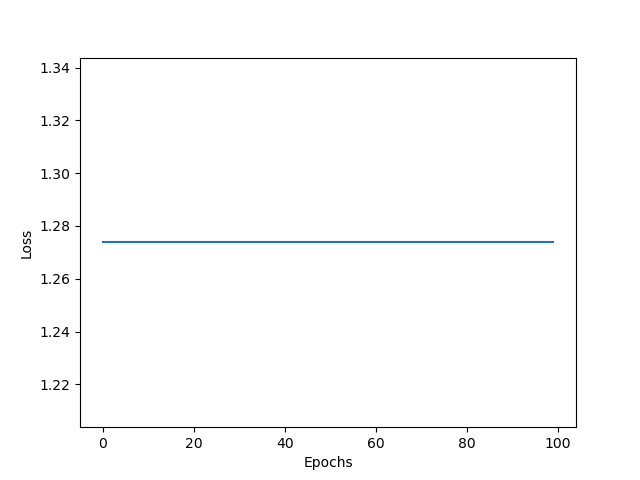
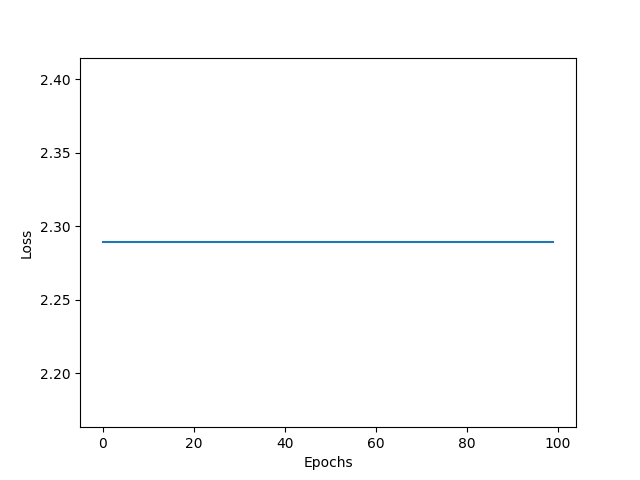
240501

diff --git a/2_Computer_Science/Artificial_Intelligence/experiment/EXP7/multilayer_perceptron_v2.py b/2_Computer_Science/Artificial_Intelligence/experiment/EXP7/multilayer_perceptron_v2.py
@@ -8,10 +8,11 @@ class Multilayer_Perceptron:
         self.weights2 = np.random.randn(hidden_size, output_size)
         self.bias1 = np.random.randn(1, hidden_size)
         self.bias2 = np.random.randn(1, output_size)
-        
+        self.losses = []
+
     def sigmoid(self, x):
         return 1 / (1 + np.exp(-x))
-    
+
     def sigmoid_derivative(self, x):
         return x * (1 - x)
 
@@ -21,7 +22,7 @@ class Multilayer_Perceptron:
     def loss_derivative(self, y_true, y_pred):
         return y_pred - y_true
 
-    def fit(self, X, y, learning_rate=0.01, epochs=10000):
+    def fit(self, X, y, learning_rate=0.01, epochs=1000):
         w1 = np.vstack((self.weights1, self.bias1))
         w2 = np.vstack((self.weights2, self.bias2))
         bias = np.ones((X.shape[0], 1))
@@ -34,6 +35,8 @@ class Multilayer_Perceptron:
             output_layer_input = np.dot(np.column_stack((hidden_layer_output, bias)), w2)
             output_layer_output = self.sigmoid(output_layer_input)
 
+            self.losses.append(np.sum(self.loss(y, output_layer_output)))
+
             # backward pass (output layer)
             # delta(E_total) /  delta(output_o)
             gradient_cal1 = self.loss_derivative(y, output_layer_output) # data_size x output_layer_size
@@ -44,7 +47,7 @@ class Multilayer_Perceptron:
             # delta(E_total) / delta(w2)
             gradient_cal4 = np.dot(gradient_cal3.T, gradient_cal1 * gradient_cal2) # (hidden_layer_size + 1) x output_layer_size
             # update w2
-            weights2_update = gradient_cal4 * learning_rate 
+            weights2_update = gradient_cal4 * learning_rate
             w2 -= weights2_update
 
             # backward pass (hidden layer)
@@ -85,33 +88,46 @@ if __name__ == '__main__':
     age, estimated_salary, purchased = data_train[:, 0], data_train[:, 1], data_train[:, 2]
     age_test, estimated_salary_test, purchased_test = data_test[:, 0], data_test[:, 1], data_test[:, 2]
 
-    mlp = Multilayer_Perceptron(2, 4, 1)
+    mlp = Multilayer_Perceptron(2, 8, 1)
 
     X_train = np.column_stack((age, estimated_salary))
-    y_train = np.expand_dims(purchased, axis=1) 
+    y_train = np.expand_dims(purchased, axis=1)
     mlp.fit(X_train, y_train)
 
     X_test = np.column_stack((age_test, estimated_salary_test))
-    y_test = np.expand_dims(purchased_test, axis=1) 
+    y_test = np.expand_dims(purchased_test, axis=1)
     y_pred = mlp.predict(X_test)
 
+    plt.xlabel('Age')
+    plt.ylabel('Estimated Salary')
+
+    count_correct = 0
     for i in range(len(y_pred)):
-        if y_pred[i] > 0 and y_test[i] == 1 or y_pred[i] <= 0 and y_test[i] == 0:
+        if y_pred[i] > 0.5 and y_test[i] == 1 or y_pred[i] <= 0.5 and y_test[i] == 0:
             print(f'\033[92mPredicted: {y_pred[i][0]:.2f}, Actual: {y_test[i]}\033[0m')
+            count_correct += 1
         else :
             print(f'\033[91mPredicted: {y_pred[i][0]:.2f}, Actual: {y_test[i]}\033[0m')
+    print(f'Correct Rate: {count_correct / len(y_pred):.2%}')
 
     for i in range(len(y_test)):
         if y_test[i] == 1:
             plt.scatter(age_test[i], estimated_salary_test[i], color='red')
         else:
             plt.scatter(age_test[i], estimated_salary_test[i], color='blue')
-    plt.xlabel('Age')
-    plt.ylabel('Estimated Salary')
-    
+
+    plt.savefig('mlp_data.png')
+
     x = np.linspace(-3, 3, 100)
     y = np.linspace(-3, 3, 100)
     X, Y = np.meshgrid(x, y)
     Z = mlp.predict(np.column_stack((X.ravel(), Y.ravel()))).reshape(X.shape)
     plt.contourf(X, Y, Z, levels=1, alpha=0.5)
-    plt.show()
+    # plt.show()
+    plt.savefig('mlp_prediction.png')
+    plt.close()
+
+    plt.plot(mlp.losses)
+    plt.xlabel('Epochs')
+    plt.ylabel('Loss')
+    plt.savefig('mlp_loss.png')

diff --git a/2_Computer_Science/Artificial_Intelligence/experiment/EXP7/perceptron.py b/2_Computer_Science/Artificial_Intelligence/experiment/EXP7/perceptron.py
@@ -4,7 +4,7 @@ import matplotlib.pyplot as plt
 class Perceptron:
 
     def __init__(self, input_size, output_size):
-        self.weights = np.random.randn(input_size, output_size) 
+        self.weights = np.random.randn(input_size, output_size)
         self.bias = np.random.randn(1, output_size)
         self.losses = []
 
@@ -13,7 +13,7 @@ class Perceptron:
         bias = np.ones((X.shape[0], 1))
         for _ in range(epochs):
             y_pred = self.predict(X)
-            self.losses.append(np.mean(0.5 * np.power(y_pred - y, 2)))
+            self.losses.append(0.5 * np.power(y_pred - y, 2))
             w -= learning_rate * np.dot(np.column_stack((X, bias)).T, y_pred - y)
         self.weights = w[:-1]
         self.bias = w[-1]
@@ -23,7 +23,7 @@ class Perceptron:
         return np.dot(np.column_stack((X, bias)), np.vstack((self.weights, self.bias)))
 
 if __name__ == '__main__':
-    data = np.genfromtxt('data/data.csv', delimiter=',', skip_header=1) 
+    data = np.genfromtxt('data/data.csv', delimiter=',', skip_header=1)
     # z-score normalization
     data[:, 0] = (data[:, 0] - data[:, 0].mean()) / data[:, 0].std()
     data[:, 1] = (data[:, 1] - data[:, 1].mean()) / data[:, 1].std()
@@ -37,11 +37,11 @@ if __name__ == '__main__':
     perceptron = Perceptron(2, 1)
 
     X_train = np.column_stack((age, estimated_salary))
-    y_train = np.expand_dims(purchased, axis=1) 
+    y_train = np.expand_dims(purchased, axis=1)
     perceptron.fit(X_train, y_train)
 
     X_test = np.column_stack((age_test, estimated_salary_test))
-    y_test = np.expand_dims(purchased_test, axis=1) 
+    y_test = np.expand_dims(purchased_test, axis=1)
     y_pred = perceptron.predict(X_test)
 
     count_correct = 0
